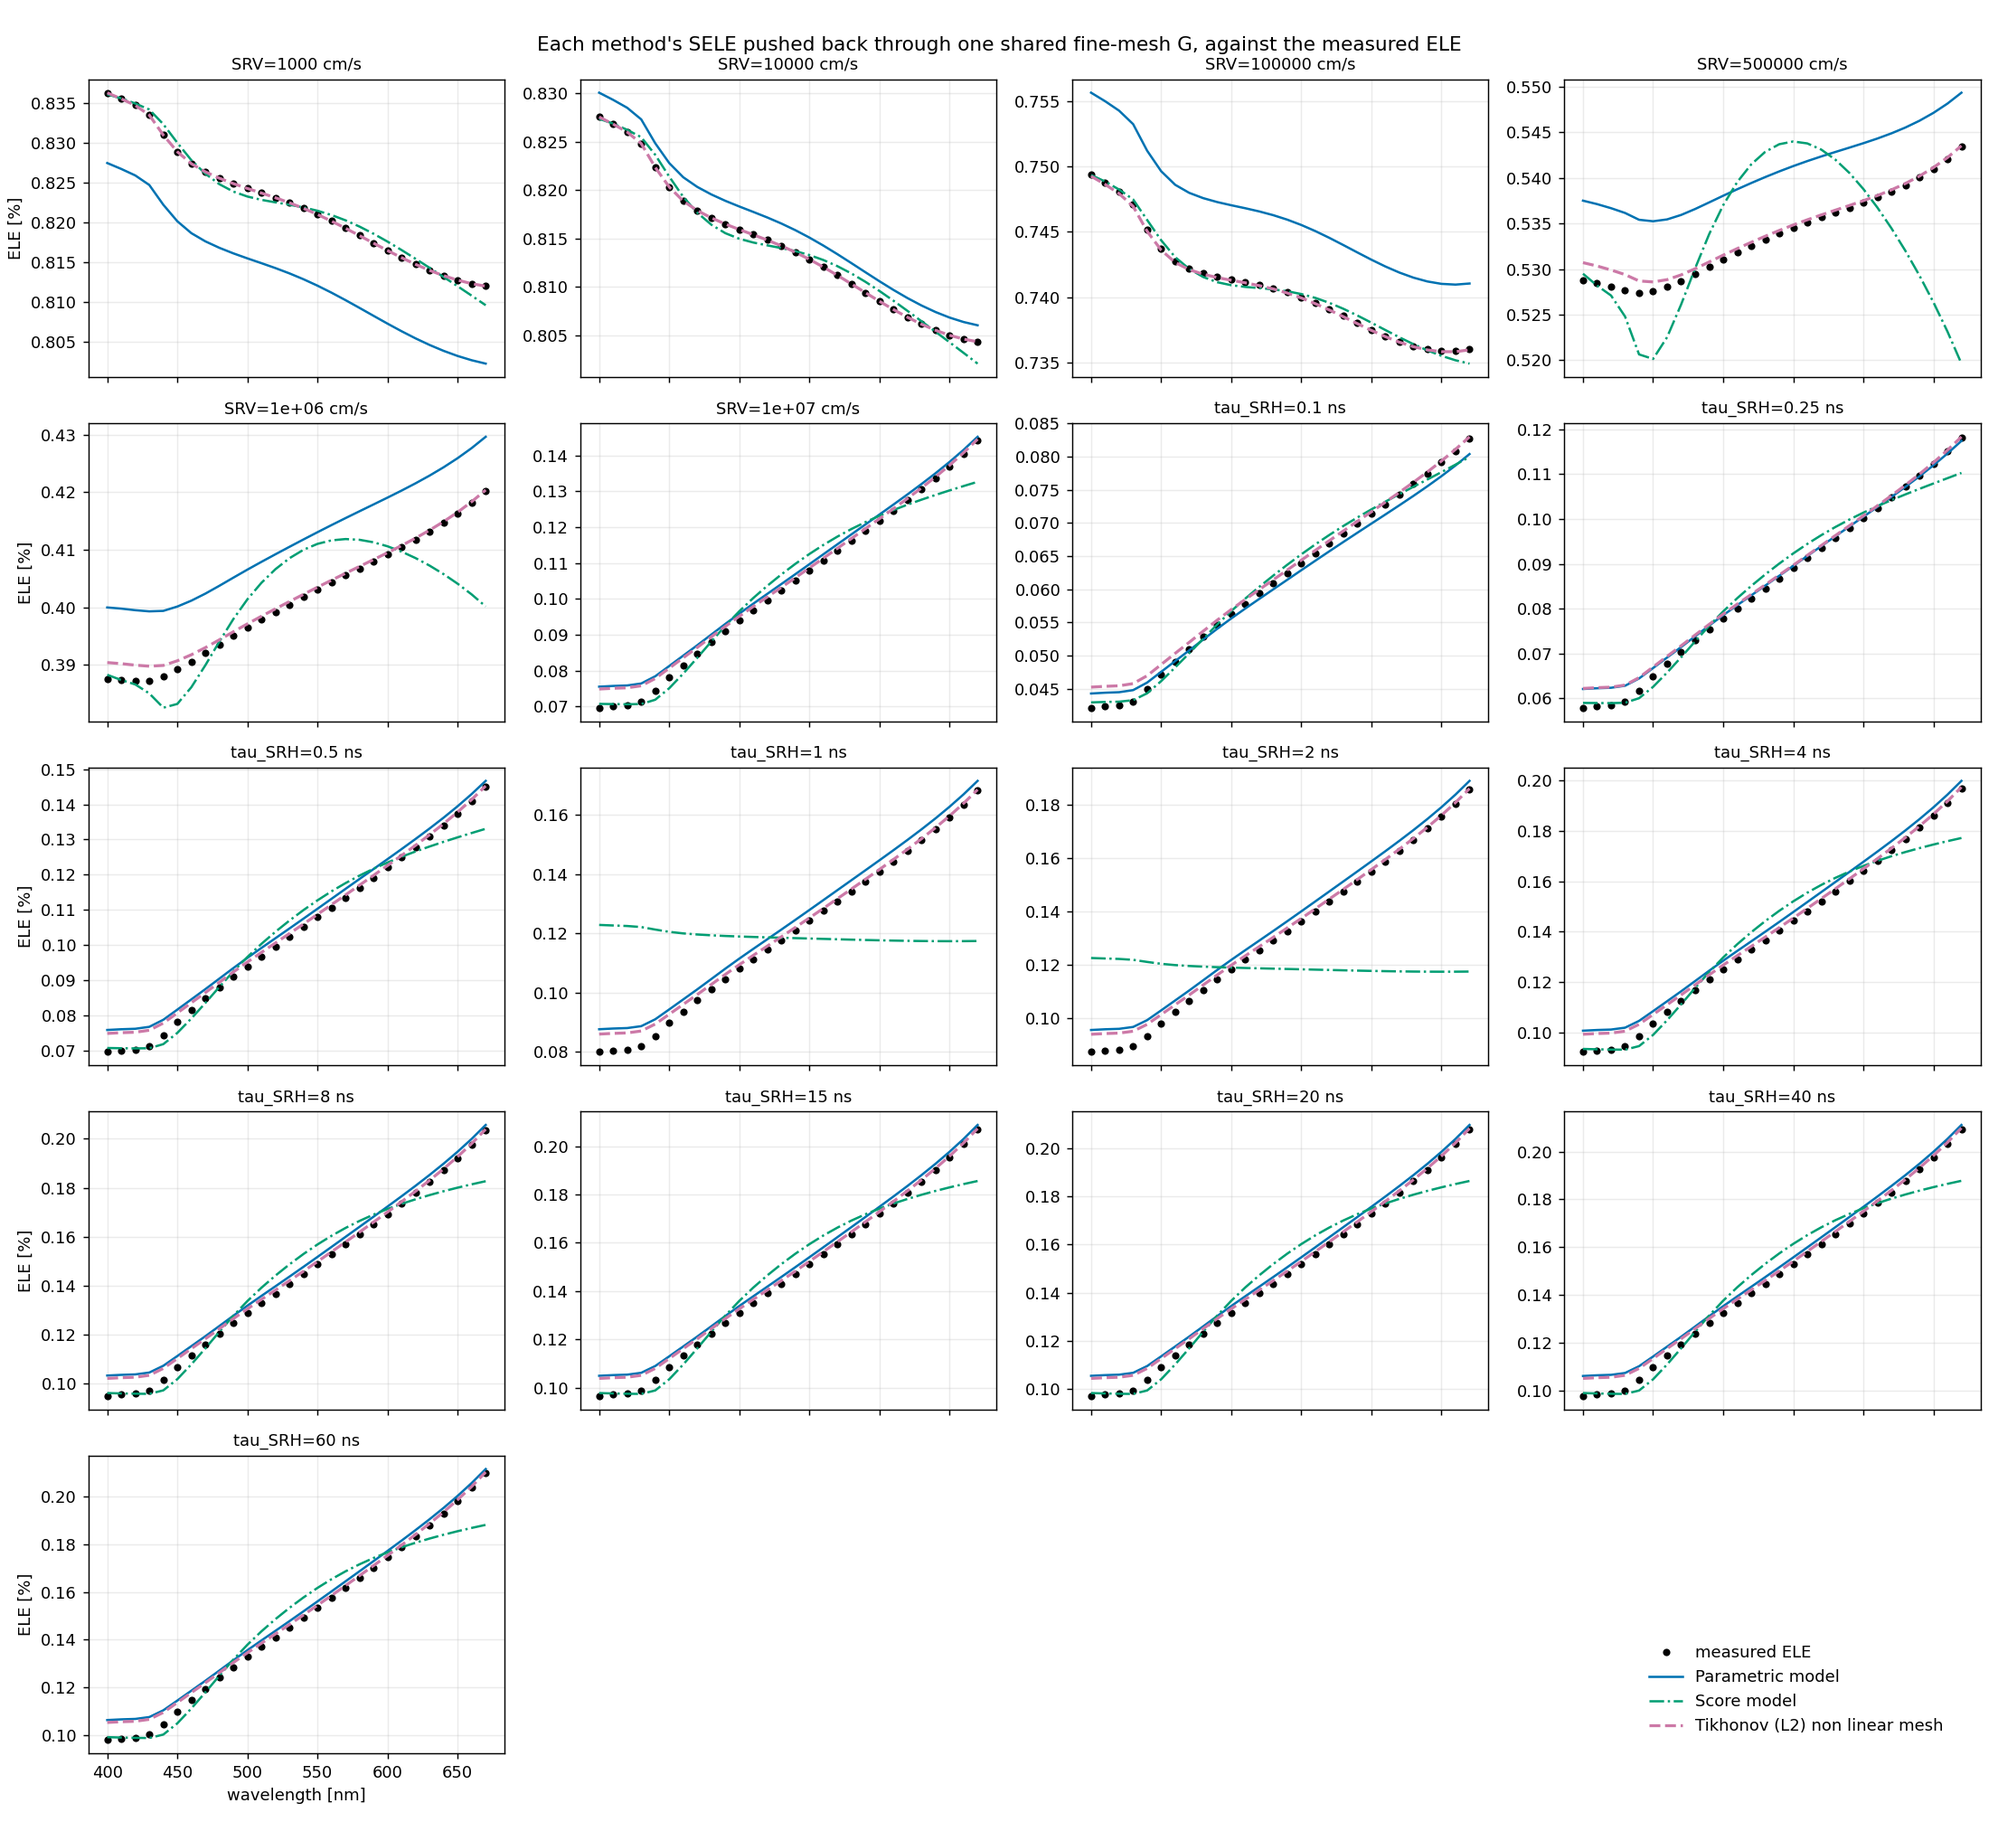
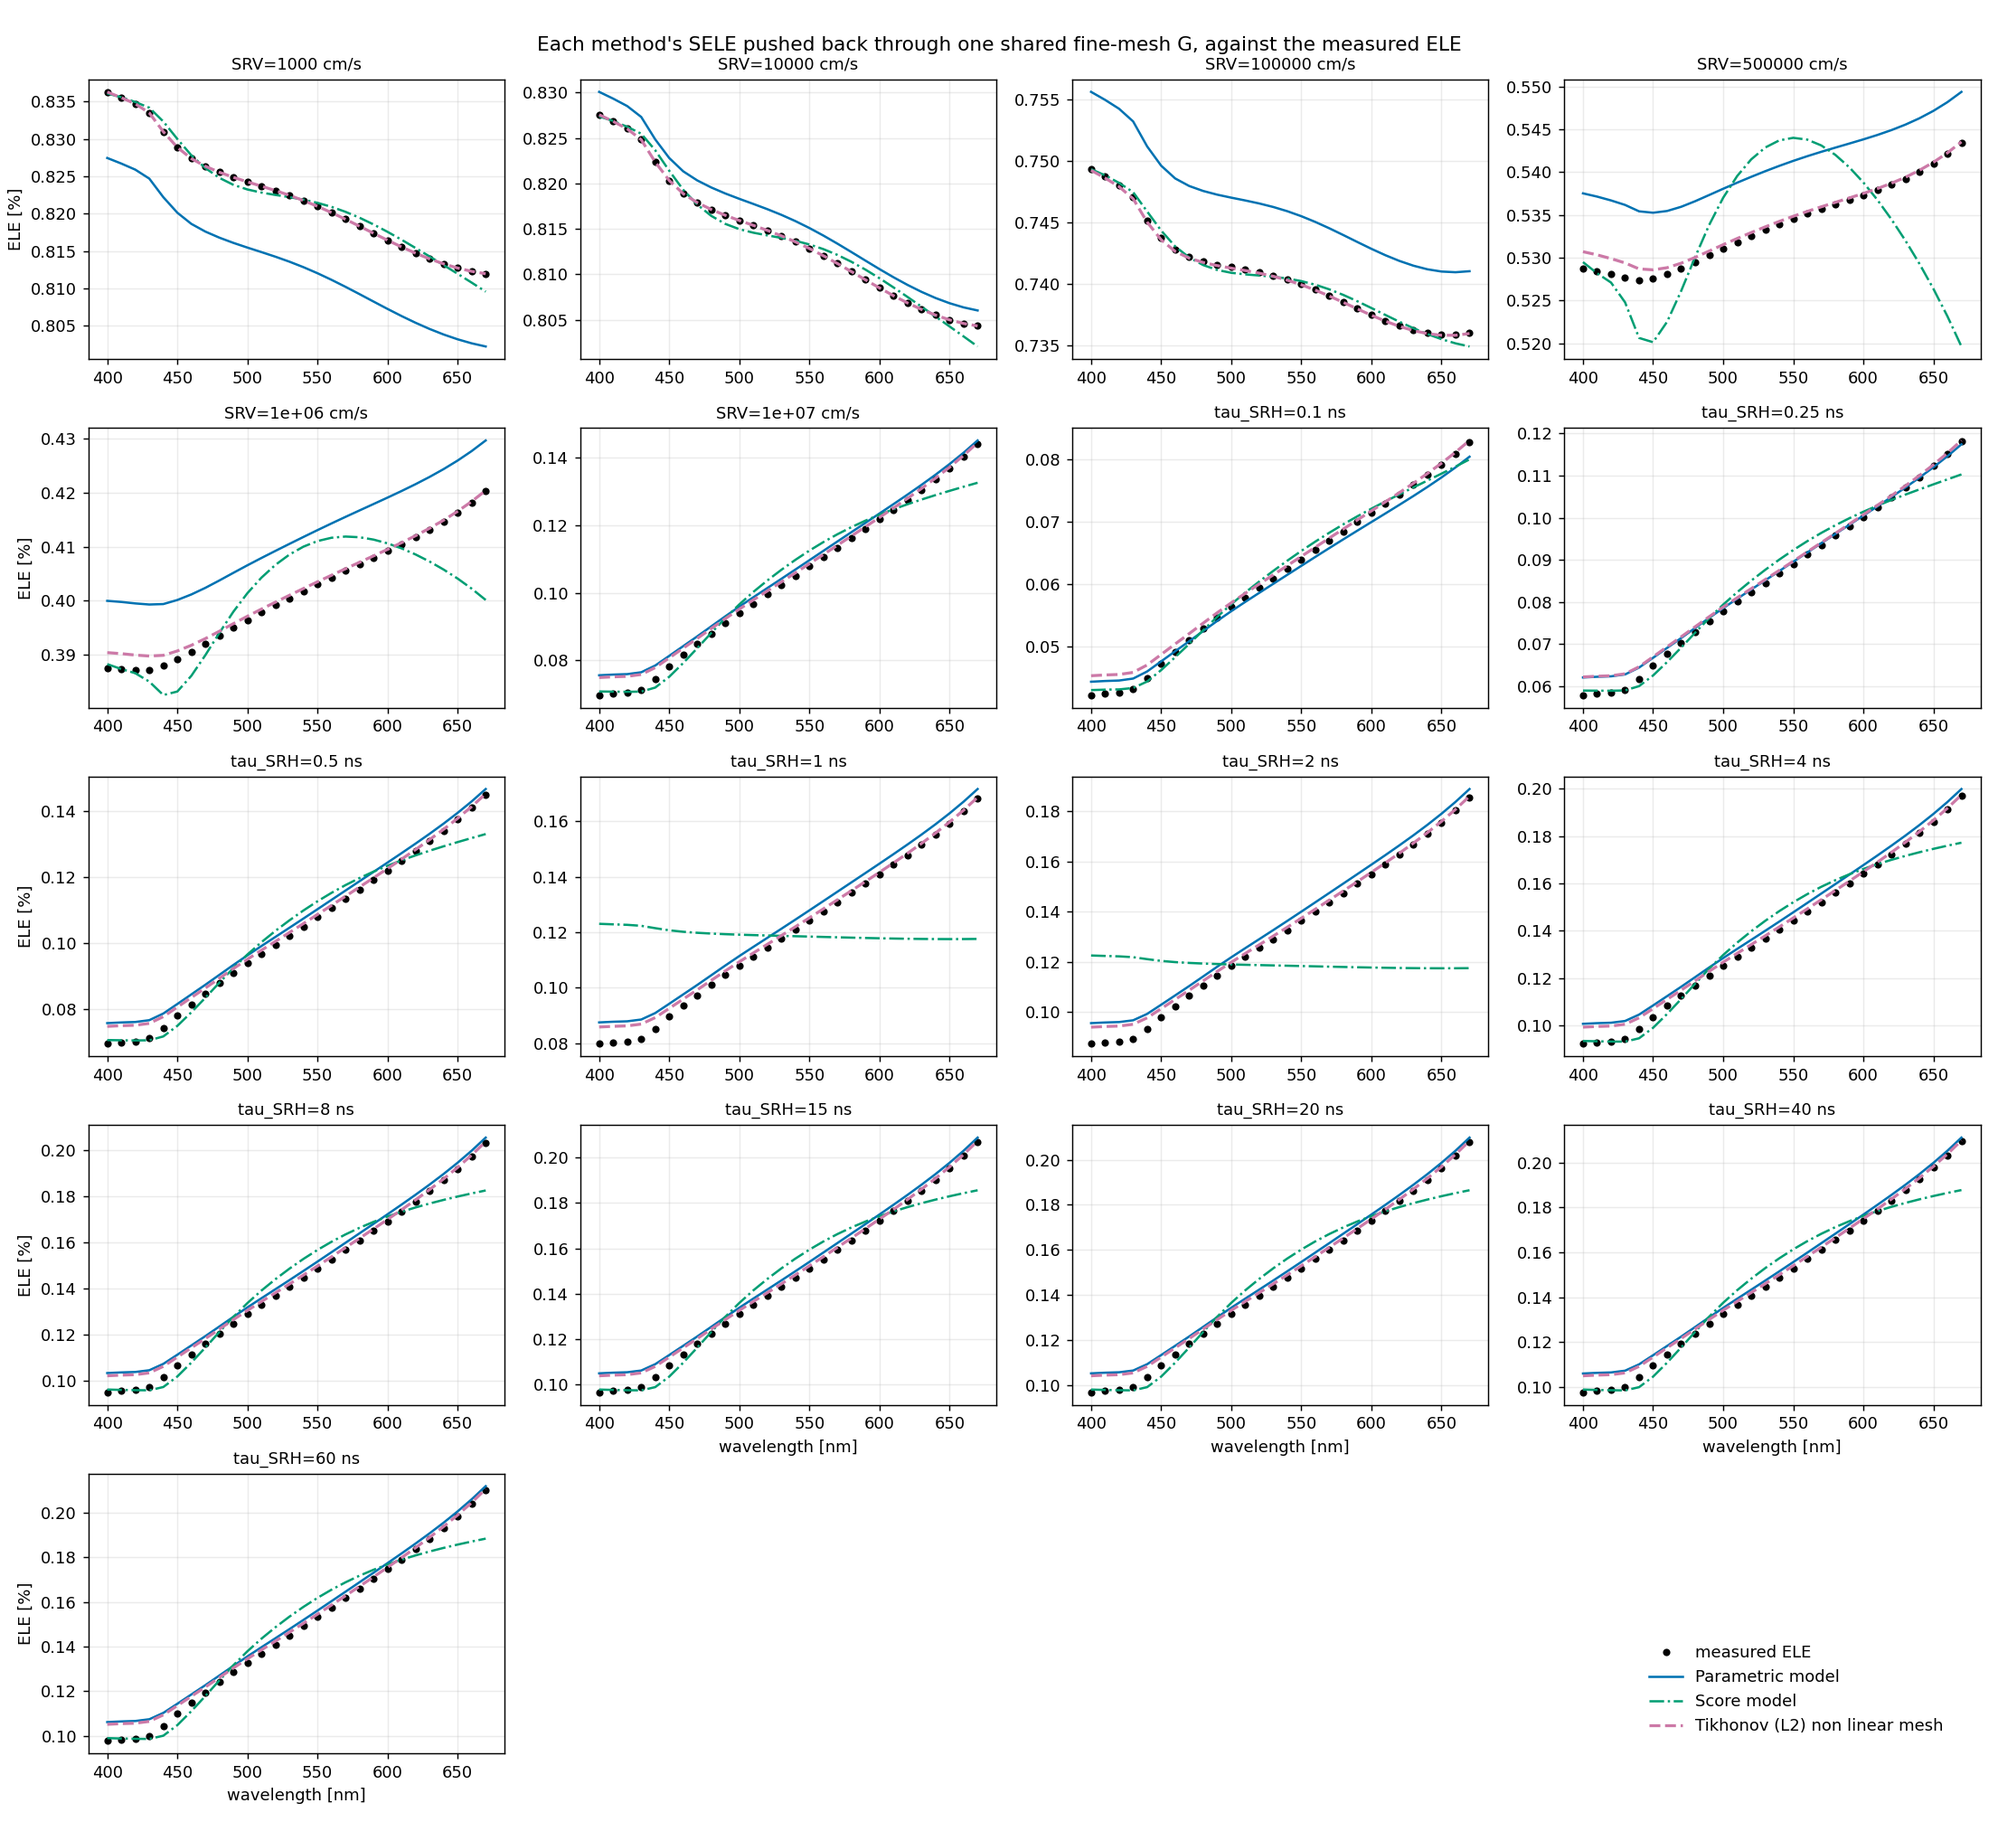
Show x-axis tick labels on every panel of the method-comparison figures, label the lowest visible panel of each column, and regenerate the comparison figures and metrics.

diff --git a/src/evaluation/plot_method_comparison.py b/src/evaluation/plot_method_comparison.py
@@ -154,8 +154,12 @@ def _panel_grid(curves):
 
 
 def _finish(figure, axes, xlabel, ylabel, title, filename):
-    for ax in axes[-1]:
-        ax.set_xlabel(xlabel)
+    # sharex hides tick labels on all but the last row; show them on every panel, and put the
+    # axis label on the lowest visible panel of each column since the last row is partly empty.
+    for ax in axes.flat:
+        ax.xaxis.set_tick_params(labelbottom=True)
+    for column in axes.T:
+        [ax for ax in column if ax.axison][-1].set_xlabel(xlabel)
     for ax in axes[:, 0]:
         ax.set_ylabel(ylabel)
     handles, labels = axes.flat[0].get_legend_handles_labels()
